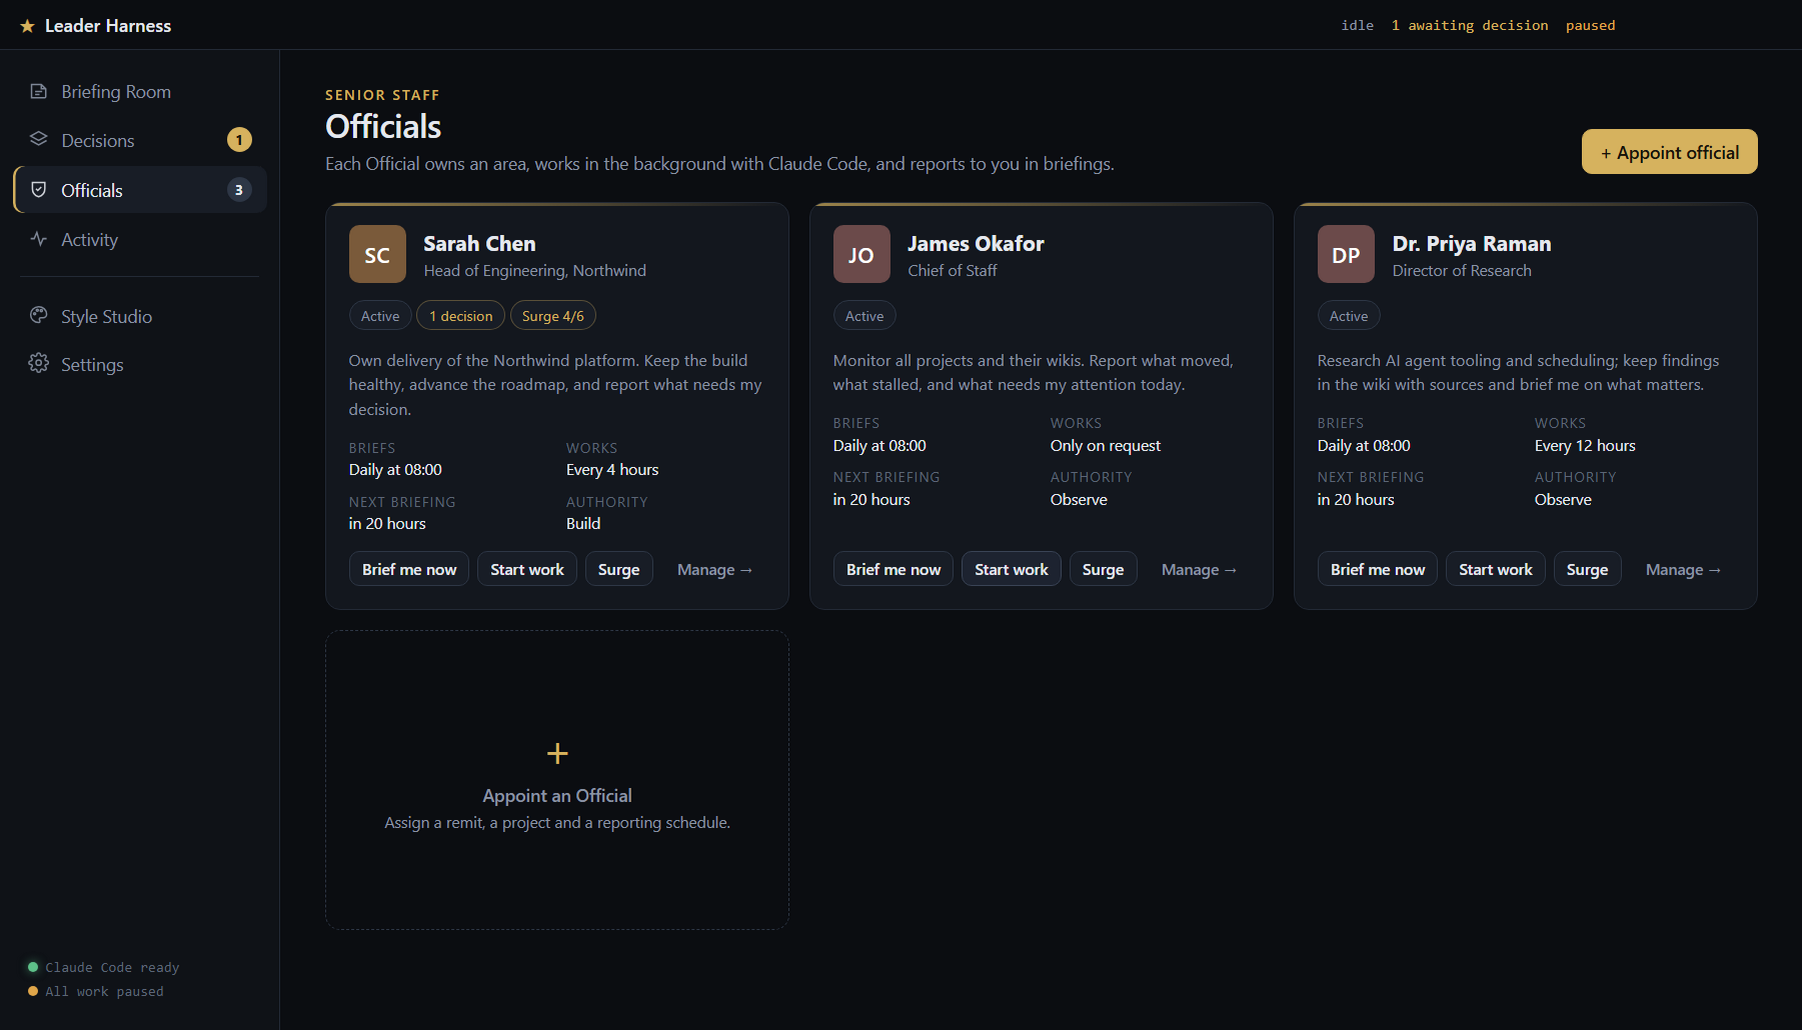
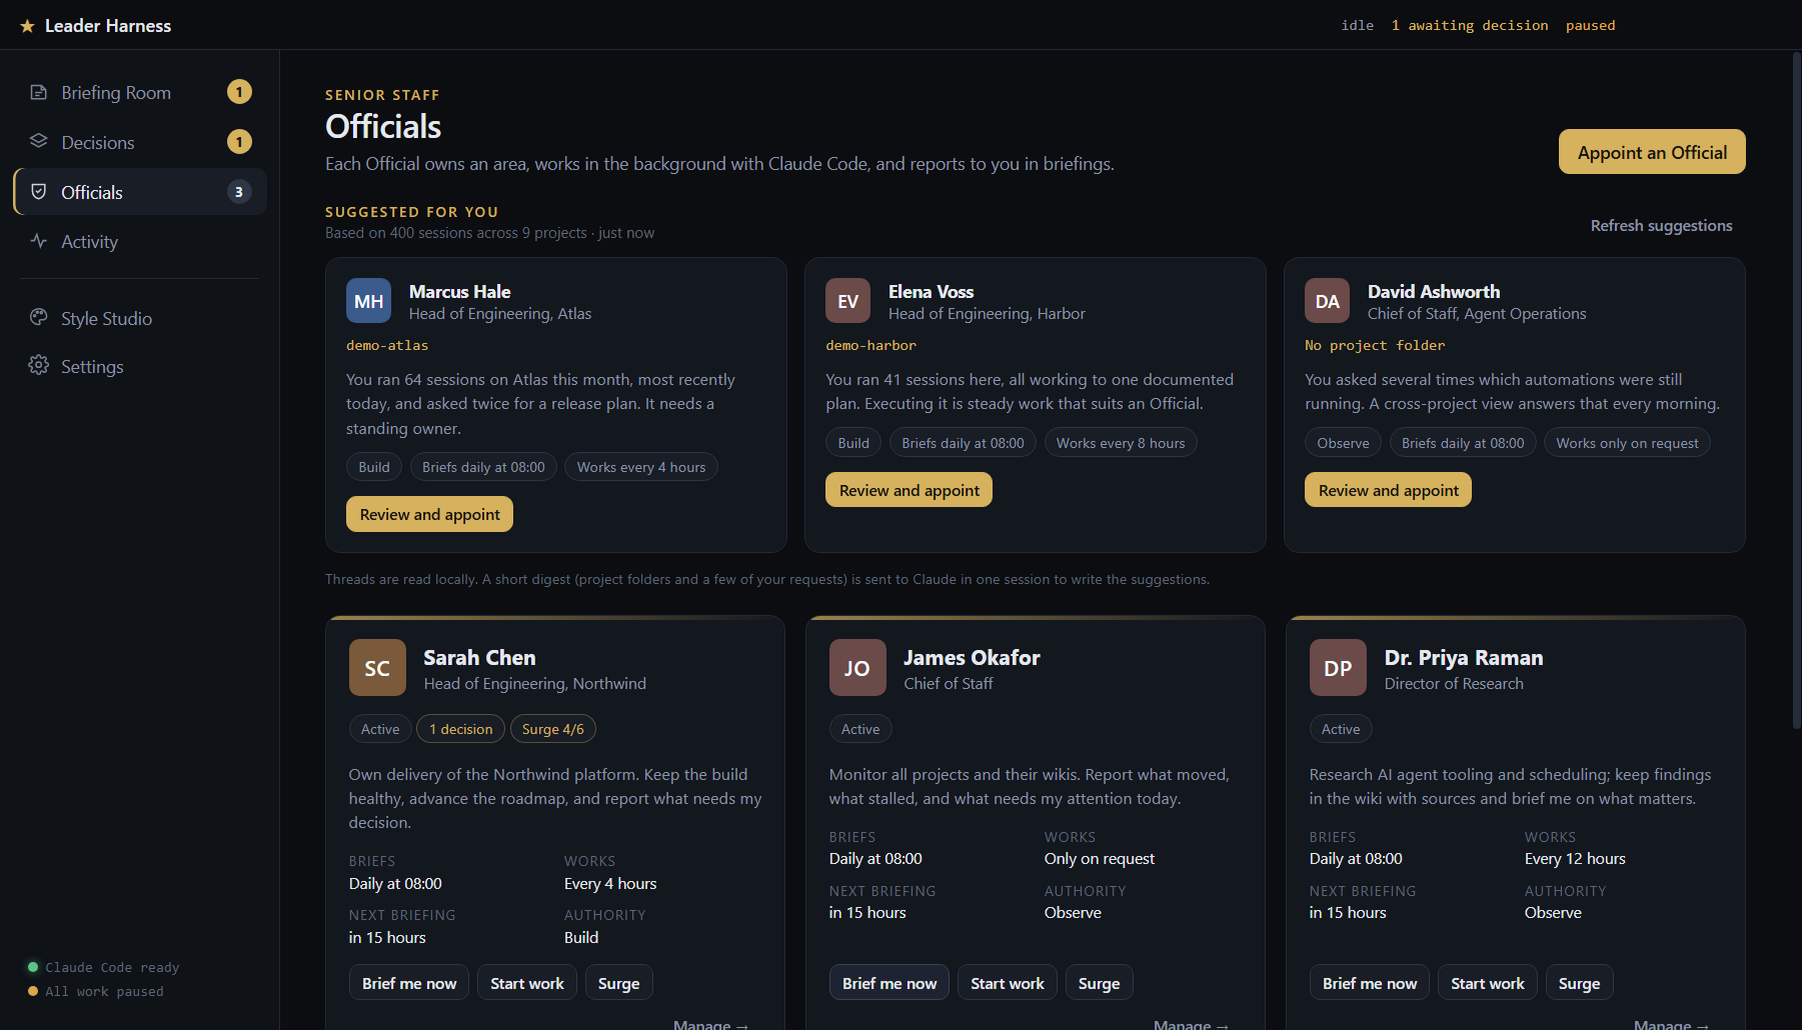
Suggested Officials move to the Officials screen (#16)
Suggestions now sit between the header and the Officials; Review and
appoint opens the Appoint form pre-filled. Suggestions for projects
that already have an Official are hidden. Version 0.5.1.

diff --git a/src/renderer/views/appoint.js b/src/renderer/views/appoint.js
@@ -1,6 +1,6 @@
 // Setup console: appoint a Senior Official. The same form edits an existing
 // Official from its detail page.
-import { $, $$, esc, monogram, cadenceLabel, relTime, toast } from '../util.js';
+import { $, $$, esc, monogram, cadenceLabel, toast } from '../util.js';
 
 const PRESETS = [
   {
@@ -276,64 +276,17 @@ export function officialForm(root, app, values, { mode, onSubmit }) {
       applyPreset({ ...s, isolate: true });
       await inspectFolder();
       preview();
-      form.scrollIntoView({ behavior: 'smooth', block: 'start' });
     },
   };
 }
 
-function cadenceShort(c) {
-  return cadenceLabel(c).toLowerCase();
-}
-
-// Three suggested Officials, drawn from the Leader's recent Claude Code and
-// Codex threads. Prepared automatically when missing or a week old (unless
-// all work is paused, which means no background usage).
-function renderSuggestions(el, app, form) {
-  const sg = app.state.suggestions || {};
-  const auth = app.state.authority;
-  const project = (p) => (p ? p.split(/[\\/]/).filter(Boolean).pop() : 'No project folder');
-  let body;
-  if (sg.status === 'running') {
-    body = `<div class="sg-note"><span class="dot ok"></span> Reading your recent Claude Code and Codex threads and preparing three suggestions. This takes about a minute.</div>`;
-  } else if (sg.status === 'ready' && sg.items?.length) {
-    body = `<div class="sg-cards">${sg.items
-      .map(
-        (s, i) => `<div class="card sg-card">
-          <div class="official-head">${monogram(s.name, 36)}<div><b>${esc(s.name)}</b><div class="muted" style="font-size:12.5px">${esc(s.title)}</div></div></div>
-          <div class="sg-project mono">${esc(project(s.projectPath))}</div>
-          <p class="sg-why">${esc(s.why)}</p>
-          <div class="sg-pills"><span class="pill">${esc(auth[s.authority]?.label || s.authority)}</span><span class="pill">Briefs ${esc(cadenceShort(s.briefingCadence))}</span><span class="pill">Works ${esc(cadenceShort(s.workCadence))}</span></div>
-          <button class="btn primary sm" data-use="${i}">Use this suggestion</button>
-        </div>`
-      )
-      .join('')}</div>`;
-  } else if (sg.status === 'failed') {
-    body = `<div class="sg-note bad">Suggestions could not be prepared: ${esc(sg.error || 'unknown error')}</div>`;
-  } else {
-    body = `<div class="sg-note">Leader Harness can read your recent Claude Code and Codex threads on this computer and suggest three Officials for the work you do most.</div>`;
-  }
-  const basis = sg.status === 'ready' && sg.basis ? `Based on ${sg.basis.claude + sg.basis.codex} sessions across ${sg.basis.projects} projects · ${esc(relTime(sg.generatedAt))}` : '';
-  el.innerHTML = `
-    <div class="sg-head"><div><div class="eyebrow">Suggested for you</div><div class="faint" style="font-size:12px;margin-top:2px">${basis}</div></div>
-      <button class="btn ghost sm" data-refresh ${sg.status === 'running' ? 'disabled' : ''}>${sg.status === 'ready' ? 'Refresh suggestions' : 'Suggest Officials from my threads'}</button></div>
-    ${body}
-    <div class="faint sg-privacy">Threads are read locally. A short digest (project folders and a few of your requests) is sent to Claude in one session to write the suggestions.</div>`;
-  $('[data-refresh]', el).onclick = () => app.call('suggest:run');
-  $$('[data-use]', el).forEach((b) => (b.onclick = () => form?.fill(sg.items[Number(b.dataset.use)])));
-}
-
-function wantsFreshSuggestions(app) {
-  const sg = app.state.suggestions;
-  if (app.state.settings.paused) return false;
-  if (!sg || sg.status === 'failed') return !sg;
-  if (sg.status === 'running') return false;
-  return !sg.generatedAt || Date.now() - new Date(sg.generatedAt).getTime() > 7 * 86400000;
-}
-
 export function mount(root, app) {
+  // A suggestion picked on the Officials screen arrives pre-filled.
+  const suggestion = app.ui.pendingSuggestion;
+  app.ui.pendingSuggestion = null;
   root.innerHTML = `<div class="page"><div class="page-head"><div><div class="eyebrow">Setup</div><h1>Appoint an Official</h1>
-    <p>An Official owns an area, works in the background with Claude Code, and briefs you on the schedule you set.</p></div></div>
-    <section class="suggestions" data-suggestions></section><div data-form></div></div>`;
+    <p>${suggestion ? 'Pre-filled from a suggestion. Review the details, then appoint.' : 'An Official owns an area, works in the background with Claude Code, and briefs you on the schedule you set.'}</p></div></div>
+    <div data-form></div></div>`;
   const form = officialForm($('[data-form]', root), app, {}, {
     mode: 'create',
     onSubmit: async (input) => {
@@ -342,20 +295,6 @@ export function mount(root, app) {
       app.go(`#/official/${o.id}`);
     },
   });
-  const draw = () => renderSuggestions($('[data-suggestions]', root), app, form);
-  draw();
-  if (wantsFreshSuggestions(app)) app.call('suggest:run');
-  let last = JSON.stringify(app.state.suggestions || null);
-  return {
-    // Re-draw only the suggestions, and only when they change: the form
-    // below may hold unsaved input.
-    update() {
-      const now = JSON.stringify(app.state.suggestions || null);
-      if (now !== last) {
-        last = now;
-        draw();
-      }
-    },
-    tick: draw,
-  };
+  if (suggestion) form.fill(suggestion);
+  return {};
 }

diff --git a/src/renderer/views/suggestions.js b/src/renderer/views/suggestions.js
@@ -1,0 +1,54 @@
+// Three suggested Officials, drawn from the Leader's recent Claude Code and
+// Codex threads, shown on the Officials screen. Prepared automatically when
+// missing or a week old (unless all work is paused, which means no
+// background usage).
+import { $, $$, esc, monogram, relTime, cadenceLabel } from '../util.js';
+
+const projectName = (p) => (p ? p.split(/[\\/]/).filter(Boolean).pop() : 'No project folder');
+
+// onUse(suggestion) is called when the Leader picks one.
+export function renderSuggestions(el, app, onUse) {
+  const sg = app.state.suggestions || {};
+  const auth = app.state.authority;
+  // Suggestions for projects that already have an Official are hidden.
+  const taken = new Set(app.state.officials.map((o) => (o.projectPath || '').toLowerCase()).filter(Boolean));
+  const items = (sg.items || []).map((s, i) => ({ s, i })).filter(({ s }) => !s.projectPath || !taken.has(s.projectPath.toLowerCase()));
+  let body;
+  if (sg.status === 'running') {
+    body = `<div class="sg-note"><span class="dot ok"></span> Reading your recent Claude Code and Codex threads and preparing three suggestions. This takes about a minute.</div>`;
+  } else if (sg.status === 'ready' && items.length) {
+    body = `<div class="sg-cards">${items
+      .map(
+        ({ s, i }) => `<div class="card sg-card">
+          <div class="official-head">${monogram(s.name, 36)}<div><b>${esc(s.name)}</b><div class="muted" style="font-size:12.5px">${esc(s.title)}</div></div></div>
+          <div class="sg-project mono">${esc(projectName(s.projectPath))}</div>
+          <p class="sg-why">${esc(s.why)}</p>
+          <div class="sg-pills"><span class="pill">${esc(auth[s.authority]?.label || s.authority)}</span><span class="pill">Briefs ${esc(cadenceLabel(s.briefingCadence).toLowerCase())}</span><span class="pill">Works ${esc(cadenceLabel(s.workCadence).toLowerCase())}</span></div>
+          <button class="btn primary sm" data-use="${i}">Review and appoint</button>
+        </div>`
+      )
+      .join('')}</div>`;
+  } else if (sg.status === 'ready') {
+    body = `<div class="sg-note">Every suggested project already has an Official. Refresh for new suggestions.</div>`;
+  } else if (sg.status === 'failed') {
+    body = `<div class="sg-note bad">Suggestions could not be prepared: ${esc(sg.error || 'unknown error')}</div>`;
+  } else {
+    body = `<div class="sg-note">Leader Harness can read your recent Claude Code and Codex threads on this computer and suggest three Officials for the work you do most.</div>`;
+  }
+  const basis = sg.status === 'ready' && sg.basis ? `Based on ${sg.basis.claude + sg.basis.codex} sessions across ${sg.basis.projects} projects · ${esc(relTime(sg.generatedAt))}` : '';
+  el.innerHTML = `
+    <div class="sg-head"><div><div class="eyebrow">Suggested for you</div><div class="faint" style="font-size:12px;margin-top:2px">${basis}</div></div>
+      <button class="btn ghost sm" data-refresh ${sg.status === 'running' ? 'disabled' : ''}>${sg.status === 'ready' ? 'Refresh suggestions' : 'Suggest Officials from my threads'}</button></div>
+    ${body}
+    <div class="faint sg-privacy">Threads are read locally. A short digest (project folders and a few of your requests) is sent to Claude in one session to write the suggestions.</div>`;
+  $('[data-refresh]', el).onclick = () => app.call('suggest:run');
+  $$('[data-use]', el).forEach((b) => (b.onclick = () => onUse(sg.items[Number(b.dataset.use)])));
+}
+
+export function wantsFreshSuggestions(app) {
+  const sg = app.state.suggestions;
+  if (app.state.settings.paused) return false;
+  if (!sg || sg.status === 'failed') return !sg;
+  if (sg.status === 'running') return false;
+  return !sg.generatedAt || Date.now() - new Date(sg.generatedAt).getTime() > 7 * 86400000;
+}

diff --git a/src/renderer/views/officials.js b/src/renderer/views/officials.js
@@ -1,5 +1,6 @@
 // Officials: every Senior Official at a glance, with quick actions.
-import { $$, esc, monogram, relTime, cadenceLabel, toast } from '../util.js';
+import { $, $$, esc, monogram, relTime, cadenceLabel, toast } from '../util.js';
+import { renderSuggestions, wantsFreshSuggestions } from './suggestions.js';
 
 export function officialStatus(app, o) {
   const running = app.state.jobs.find((j) => j.officialId === o.id && j.status === 'running');
@@ -33,6 +34,7 @@ export function mount(root, app) {
         <div class="page-head"><div><div class="eyebrow">Senior staff</div><h1>Officials</h1>
           <p>Each Official owns an area, works in the background with Claude Code, and reports to you in briefings.</p></div>
           <div class="actions"><button class="btn primary" data-go="#/appoint">Appoint an Official</button></div></div>
+        <section class="suggestions" data-suggestions></section>
         <div class="officials">
           ${s.officials
             .map((o) => {
@@ -65,7 +67,12 @@ export function mount(root, app) {
     $$('[data-brief]', root).forEach((el) => (el.onclick = () => app.call('official:run', el.dataset.brief, 'briefing').then(() => toast('Briefing requested.'))));
     $$('[data-work]', root).forEach((el) => (el.onclick = () => app.call('official:run', el.dataset.work, 'work').then(() => toast('Work session started.'))));
     $$('[data-push]', root).forEach((el) => (el.onclick = () => launchPush(app, app.officialById(el.dataset.push))));
+    renderSuggestions($('[data-suggestions]', root), app, (suggestion) => {
+      app.ui.pendingSuggestion = suggestion;
+      app.go('#/appoint');
+    });
   }
   render();
+  if (wantsFreshSuggestions(app)) app.call('suggest:run');
   return { update: render, tick: render };
 }

diff --git a/Leader Harness - Wiki/PROMPT-LEDGER.md b/Leader Harness - Wiki/PROMPT-LEDGER.md
@@ -22,6 +22,7 @@ Format rules:
 
 | Date | Model | Request | Result (one line) | AI Notes | Human Notes |
 |------|-------|---------|--------------------|----------|--------------|
+| 2026-09-25 | Claude Opus 5.5 (Claude Code) | I want the suggestions to be here in this view | DELIVERED: suggestions moved to the Officials screen (between the header and the Officials); Review and appoint opens the Appoint form pre-filled; released as v0.5.1. | The Leader attached a screenshot of the Officials screen. Suggestions for projects that already have an Official are now hidden. The README screenshot uses seeded demo data. | |
 | 2026-09-25 | Claude Opus 5.5 (Claude Code) | I want the harness to be able to scan my previews threads with claude and codex and suggest senior officials. Maybe give me like 3 options. I think it is fine if when I go to appoint an official it has 3 suggestions for me there | DELIVERED: the Appoint screen shows three suggested Officials drawn from the Leader's recent Claude Code and Codex threads; "Use this suggestion" fills the form; released as v0.5.0. | Verified on the real threads (619 sessions, 12 projects, two real suggestion sessions): Heads of Engineering for the two busiest projects plus a cross-project Chief of Staff. Threads are read locally; only a short digest goes to Claude. The first run described the Leader as "he", so the prompt now requires "you". See [[Systems/Suggested Officials]]. A screenshot of the real suggestions (real project names and quotes) was briefly pushed to the unmerged public PR branch; it was removed by rewriting that branch before merge, and AGENTS.md now states that committed screenshots come from demo data only. | |
 | 2026-09-25 | Claude Opus 5.5 (Claude Code) | I want you to polish the reports to be more utilitarian. the folder should look more like a folder and each style should be more polished | DELIVERED: all four formats rebuilt around one reading order (bottom line, decisions, situation, actions, risks, next), with an at-a-glance strip, status tables and a filing reference. The Dossier is a proper manila folder; released as v0.4.0. | Checked every format with screenshots from paused demo data; the deck type was enlarged after a first pass read too small. See [[Systems/Briefings And Styles]]. | |
 | 2026-09-25 | Claude Opus 5.5 (Claude Code) | in the briefing room is hard to take a decision, make sure I can interact with the report and take decisions in the report no matter the style<br><br>also it feels like I need to get into the harness to get the briefing instead of the officials coming to me with the briefings, I feel like we need a lighter surface that can get to me without combing through the entire harness | DELIVERED: decisions inside every briefing format (pick and confirm, different instruction, halt), plus the Dispatch corner panel that appears when a briefing arrives and lets the Leader decide there; released as v0.3.0. | Verified in the real app with demo data: a decision taken inside the Daily Brief was recorded and its instruction queued; the red box opens by itself when a decision waits; the deck title slide links to pending decisions. See [[Systems/Dispatch]] and [[Systems/Briefings And Styles]]. | |

diff --git a/Leader Harness - Wiki/Systems/Suggested Officials.md b/Leader Harness - Wiki/Systems/Suggested Officials.md
@@ -18,7 +18,7 @@ See the [[PROMPT-LEDGER]] row dated 2026-09-25.
 - **Suggest** (`src/main/suggest.js`): one Claude Code session with **no tools** (`--permission-mode dontAsk`, no allowed tools, guard hook active, working directory in temp) turns the digest into exactly three suggestions: name, title, remit, project folder, authority, cadences and why.
   - `validateSuggestions` keeps only well-formed items. A project folder must be one from the digest; invented folders are dropped. Authority and cadences are clamped to known values.
   - The prompt enforces [[Systems/PATTERN - Voice And Tone]], and the "why" speaks to the Leader as "you", with no third person or gendered pronouns.
-- **Appoint screen**: a "Suggested for you" section with three cards (Official, project folder, why, authority and cadence pills) and **Use this suggestion**, which fills the whole form, with an isolated copy on. Suggestions are prepared automatically when missing or older than 7 days, unless all work is paused. They can be refreshed on demand, and a note states what is read and what is sent.
+- **Officials screen** (`src/renderer/views/suggestions.js`, moved from the Appoint screen on 2026-09-25 at the Leader's request: "I want the suggestions to be here in this view"): a "Suggested for you" section between the header and the Officials. It shows three cards (Official, project folder, why, authority and cadence pills), and suggestions for projects that already have an Official are hidden. **Review and appoint** hands the suggestion to the Appoint screen (`app.ui.pendingSuggestion`), which opens pre-filled, with an isolated copy on. Suggestions are prepared automatically when missing or older than 7 days, unless all work is paused. They can be refreshed on demand, and a note states what is read and what is sent.
 - **State**: `state.suggestions = { status: running|ready|failed, generatedAt, items, basis: { claude, codex, projects } }`. A run interrupted by quitting is marked failed on the next start.
 
 ## Decisions

diff --git a/Leader Harness - Wiki/Wiki Home.md b/Leader Harness - Wiki/Wiki Home.md
@@ -16,7 +16,7 @@ Leader Harness is an AI harness for leaders of organizations: people who have mo
 - [[Systems/Desktop App|Desktop App]] — the Electron app: structure, how to run it, and dev hooks.
 - [[Systems/Senior Officials|Senior Officials]] — appointing Officials, cadences, authority enforcement, surges.
 - [[Systems/Briefings And Styles|Briefings And Styles]] — the Briefing schema, the four formats, the Style Studio and decision requests.
-- [[Systems/Suggested Officials|Suggested Officials]] — three Officials suggested on the Appoint screen from the Leader's recent Claude Code and Codex threads.
+- [[Systems/Suggested Officials|Suggested Officials]] — three Officials suggested on the Officials screen from the Leader's recent Claude Code and Codex threads.
 - [[Systems/Dispatch|Dispatch]] — the corner panel that brings new briefings and decisions to the Leader without opening the harness.
 - [[Systems/PATTERN - Voice And Tone|PATTERN - Voice And Tone]] — the binding vocabulary and visual restraint for everything the Leader sees.
 

diff --git a/README.md b/README.md
@@ -67,9 +67,9 @@ Each decision states the situation and gives you:
 
 ## Your Officials
 
-Not sure whom to appoint? The Appoint screen reads your recent Claude Code and Codex threads on this computer and **suggests three Officials** for the work you do most, each with a project, a remit and a reason. One click fills in the appointment.
+Not sure whom to appoint? The Officials screen reads your recent Claude Code and Codex threads on this computer and **suggests three Officials** for the work you do most, each with a project, a remit and a reason. One click opens the appointment, already filled in.
 
-<img src="docs/screenshots/officials.png" alt="The Officials screen with three Senior Officials" width="900">
+<img src="docs/screenshots/officials.png" alt="The Officials screen with three suggested Officials above the appointed ones" width="900">
 
 For each Official you set:
 - **A remit,** and optionally a project folder.

diff --git a/CHANGELOG.md b/CHANGELOG.md
@@ -2,6 +2,10 @@
 
 One line per merged pull request, newest first. Versions follow semver; releases are built with `npm run release`.
 
+## 0.5.1
+
+- Suggested Officials move to the Officials screen; Review and appoint opens the form pre-filled.
+
 ## 0.5.0
 
 - Suggested Officials: the Appoint screen offers three Officials drawn from your recent Claude Code and Codex threads.
